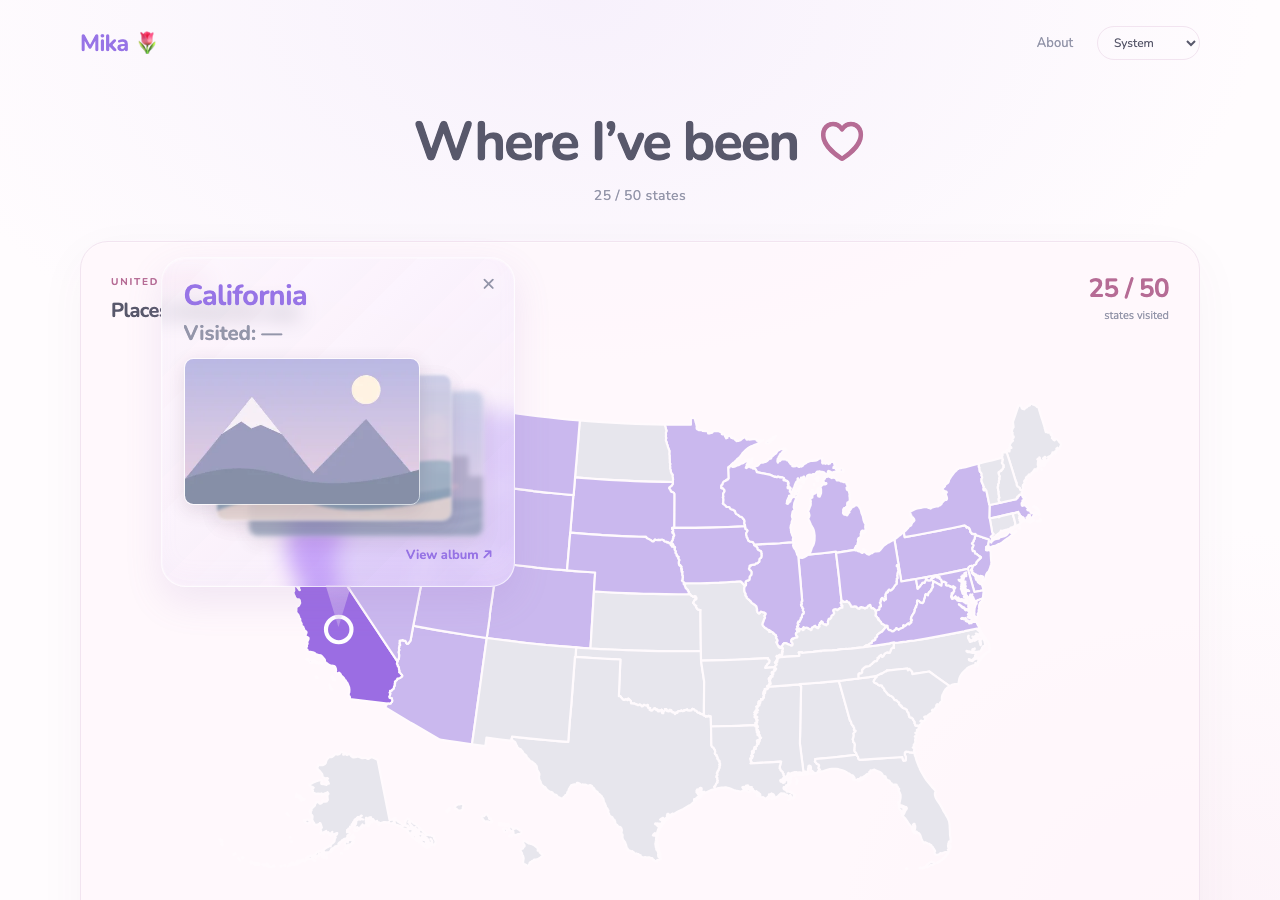
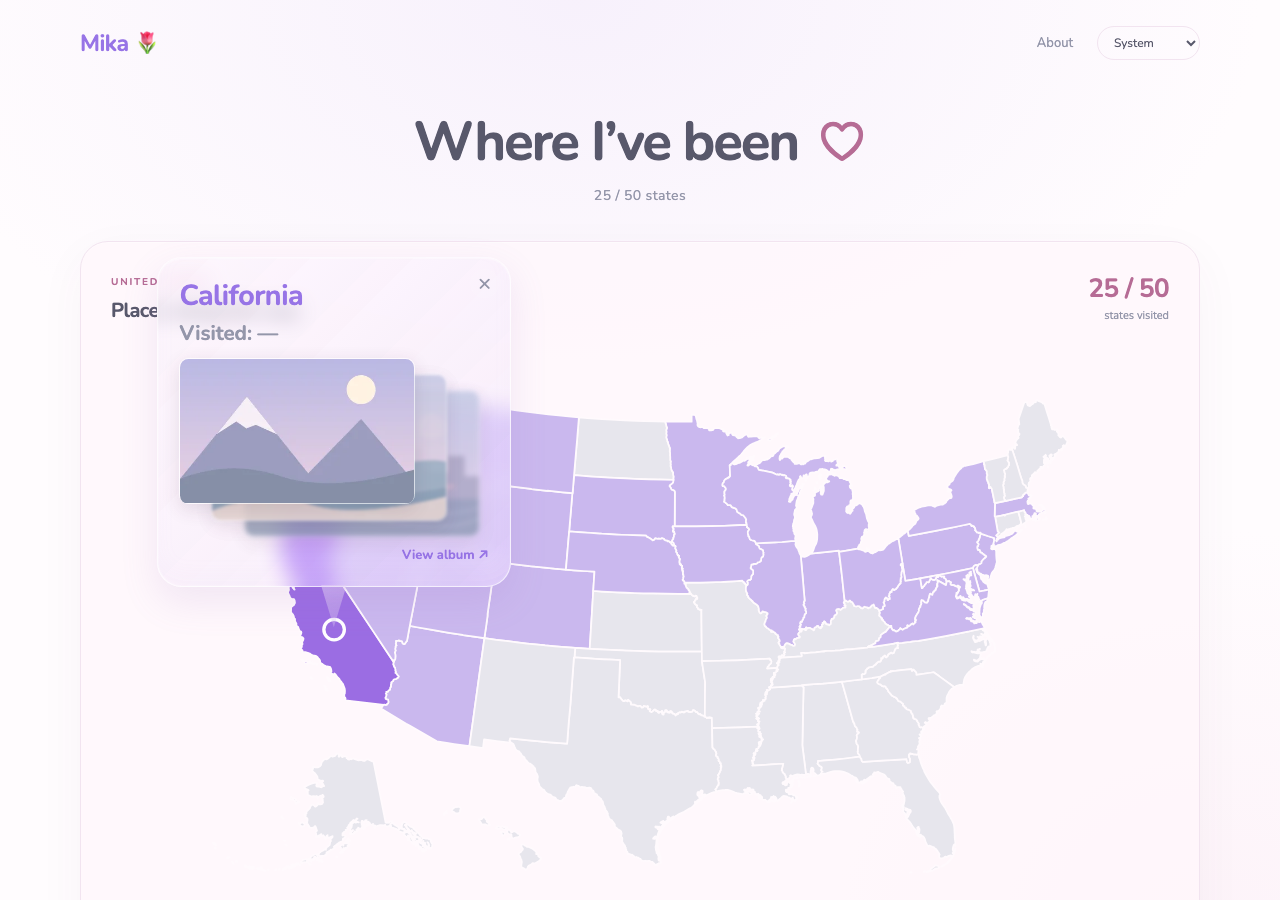
Refresh README image for the larger travel map

diff --git a/README.md b/README.md
@@ -1,8 +1,8 @@
 <a href="https://mikamikasuki.github.io/mikamikasuki/">
   <picture>
-    <source media="(prefers-reduced-motion: reduce) and (prefers-color-scheme: dark)" srcset="https://mikamikasuki.github.io/mikamikasuki/assets/readme/profile-dark-static.svg?v=531d8c7" />
-    <source media="(prefers-reduced-motion: reduce)" srcset="https://mikamikasuki.github.io/mikamikasuki/assets/readme/profile-light-static.svg?v=531d8c7" />
-    <source media="(prefers-color-scheme: dark)" srcset="https://mikamikasuki.github.io/mikamikasuki/assets/readme/profile-dark.svg?v=531d8c7" />
-    <img src="https://mikamikasuki.github.io/mikamikasuki/assets/readme/profile-light.svg?v=531d8c7" width="100%" alt="Hi, I’m Mika 🌷 — CS undergraduate at Rutgers University, currently spending a one-year gap year in California. Next year, I’ll be heading to UT Austin for a Master’s in Computer Science on a full scholarship. I hope to use both my technical skills and my token budget to give back to the open-source community. ♡ — GitHub statistics and US travel map; click to explore travel albums." />
+    <source media="(prefers-reduced-motion: reduce) and (prefers-color-scheme: dark)" srcset="https://mikamikasuki.github.io/mikamikasuki/assets/readme/profile-dark-static.svg?v=5f9156d" />
+    <source media="(prefers-reduced-motion: reduce)" srcset="https://mikamikasuki.github.io/mikamikasuki/assets/readme/profile-light-static.svg?v=5f9156d" />
+    <source media="(prefers-color-scheme: dark)" srcset="https://mikamikasuki.github.io/mikamikasuki/assets/readme/profile-dark.svg?v=5f9156d" />
+    <img src="https://mikamikasuki.github.io/mikamikasuki/assets/readme/profile-light.svg?v=5f9156d" width="100%" alt="Hi, I’m Mika 🌷 — CS undergraduate at Rutgers University, currently spending a one-year gap year in California. Next year, I’ll be heading to UT Austin for a Master’s in Computer Science on a full scholarship. I hope to use both my technical skills and my token budget to give back to the open-source community. ♡ — GitHub statistics and US travel map; click to explore travel albums." />
   </picture>
 </a>

diff --git a/docs/VALIDATION.md b/docs/VALIDATION.md
@@ -20,4 +20,4 @@ Screenshots: [P1 fixture](screenshots/p1-fixture.png), [P2 fixture](screenshots/
 
 The public checks use an unauthenticated Chromium session. Safari and Firefox have not been separately exercised.
 
-GitHub Actions [37476048285](https://github.com/mikamikasuki/mikamikasuki/actions/runs/37476048285) passed the full verification suite and deployed revision `531d8c7`.
+GitHub Actions [37478109911](https://github.com/mikamikasuki/mikamikasuki/actions/runs/37478109911) passed the full verification suite and deployed revision `5f9156d`.
